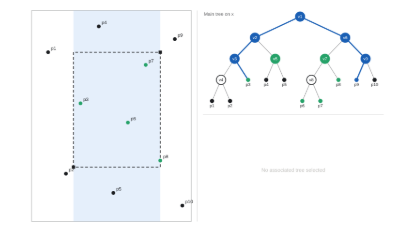
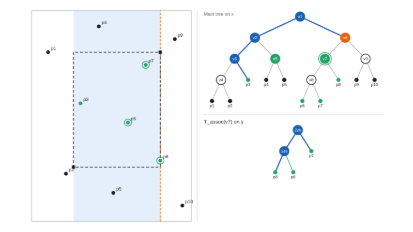
fix: range tree pseudocode width, thumbnail step, kd page link
Claude-Session: https://claude.ai/code/session_01GDn6v79cMSt4qkDVCWkMfK

diff --git a/src/geometry/algorithms/rangetree/rtSteps.test.ts b/src/geometry/algorithms/rangetree/rtSteps.test.ts
@@ -61,13 +61,17 @@ describe('RT_PSEUDOCODE', () => {
       '        else v ← lc(v_split)',
       '            while v is not a leaf',
       '                do if x ≤ x_v',
-      '                    then 1DRangeQuery(T_assoc(rc(v)), [y : y′]); v ← lc(v)',
+      '                    then T′ ← T_assoc(rc(v))',
+      '                        1DRangeQuery(T′, [y : y′])',
+      '                        v ← lc(v)',
       '                    else v ← rc(v)',
       '            check if the point stored at v must be reported',
       '            v ← rc(v_split)',
       '            while v is not a leaf',
       '                do if x′ ≥ x_v',
-      '                    then 1DRangeQuery(T_assoc(lc(v)), [y : y′]); v ← rc(v)',
+      '                    then T′ ← T_assoc(lc(v))',
+      '                        1DRangeQuery(T′, [y : y′])',
+      '                        v ← rc(v)',
       '                    else v ← lc(v)',
       '            check if the point stored at v must be reported',
     ])
@@ -195,7 +199,7 @@ describe('rtSteps: query', () => {
         expect(steps[0].state.pathHi, name).toEqual(toSplit)
       }
 
-      const assoc = steps.filter((s) => s.line === 15 || s.line === 21)
+      const assoc = steps.filter((s) => s.line === 16 || s.line === 24)
       expect(assoc, name).toHaveLength(q.assocQueries.length)
       assoc.forEach((s, k) => {
         const a = q.assocQueries[k]
@@ -223,29 +227,29 @@ describe('rtSteps: query', () => {
           expect(s.state.canonical.at(-1), name).toBe(tree.nodes[s.state.current!].right!.id)
           if (R.x0 === tree.nodes[s.state.current!].value) ties++
         } else if (lr) {
-          expect(s.line, name).toBe(16)
+          expect(s.line, name).toBe(18)
           expect(R.x0 > tree.nodes[s.state.current!].value!, name).toBe(true)
         } else if (hq) {
-          expect(s.line, name).toBe(20)
+          expect(s.line, name).toBe(22)
           expect(R.x1 >= tree.nodes[s.state.current!].value!, name).toBe(true)
           expect(hq[4], name).toBe(label(tree.nodes[s.state.current!].left!.id))
           if (R.x1 === tree.nodes[s.state.current!].value) ties++
         } else if (hl) {
-          expect(s.line, name).toBe(22)
+          expect(s.line, name).toBe(26)
           expect(R.x1 < tree.nodes[s.state.current!].value!, name).toBe(true)
         } else if (LEAF.test(s.description)) {
-          expect([11, 17, 23], name).toContain(s.line)
+          expect([11, 19, 27], name).toContain(s.line)
         } else {
           expect(s === steps[0] || s === last || ASSOC.test(s.description), `${name}: ${s.description}`).toBe(true)
         }
       }
-      const decisions = steps.filter((s) => [14, 16, 20, 22].includes(s.line))
+      const decisions = steps.filter((s) => [14, 18, 22, 26].includes(s.line))
       const below = q.pathLo.slice(q.pathLo.indexOf(q.split!) + 1, -1).length + q.pathHi.slice(q.pathHi.indexOf(q.split!) + 1, -1).length
       expect(decisions, name).toHaveLength(q.split === null ? 0 : below)
       const leaves = steps.filter((s) => LEAF.test(s.description))
       expect(leaves.map((s) => s.state.current).map((id) => tree.nodes[id!].point), name).toEqual(q.checkedLeaves)
 
-      // Done repeats the line of the last end-leaf check: 11 after a split leaf, 23 otherwise
+      // Done repeats the line of the last end-leaf check: 11 after a split leaf, 27 otherwise
       const splitLeaf = q.split !== null && tree.nodes[q.split].kind === 'leaf'
       expect(last.line, name).toBe(splitLeaf ? RT_LINE.splitLeaf : RT_LINE.hiLeaf)
       if (steps.length > 1) expect(last.line, name).toBe(steps[steps.length - 2].line)
@@ -308,10 +312,10 @@ describe('rtSteps: query', () => {
     expect(steps.map((s) => [s.line, s.description])).toEqual([
       [9, 'Split node v2: x = x′ = 100 meets its split value 100, so the path to x goes left and the path to x′ right'],
       [14, 'v3: x = 100 ≤ 100, the right subtree p2 lies in the slab → query its associated tree'],
-      [15, '1DRangeQuery(T_assoc(p2), [150 : 250]): reports p2'],
-      [17, 'Leaf p1: outside'],
-      [23, 'Leaf p3: outside'],
-      [23, 'Done: 1 point reported, 1 associated query'],
+      [16, '1DRangeQuery(T_assoc(p2), [150 : 250]): reports p2'],
+      [19, 'Leaf p1: outside'],
+      [27, 'Leaf p3: outside'],
+      [27, 'Done: 1 point reported, 1 associated query'],
     ])
     // x = x′ off every split value parts the paths nowhere: the split node is a leaf
     const off = rtSteps({ points, query: { x0: 120, y0: 0, x1: 120, y1: 400 } }, 'query')
@@ -332,7 +336,7 @@ describe('rtSteps: degenerate input', () => {
       const steps = rtSteps(input, mode)
       expect(steps).toHaveLength(1)
       expect(steps[0].description).toBe('Done: 0 points reported, 0 associated queries')
-      expect(steps[0].line).toBe(23)
+      expect(steps[0].line).toBe(27)
       expect(steps[0].state).toMatchObject({ phase: 'query', mode, nodes: [], split: null, builtUpTo: 0, reported: [] })
       expect(steps[0].state.counts).toEqual({ nodes: 0, storage: 0, depth: 0, assocQueries: 0 })
     }
@@ -411,12 +415,12 @@ describe('rtSteps: general', () => {
 const TEXTBOOK_QUERY: [number, string][] = [
   [9, 'Split node v1: x = 104 and x′ = 289 go different ways (x ≤ 189 ≤ x′)'],
   [14, 'v2: x = 104 ≤ 119, the right subtree v5 lies in the slab → query its associated tree'],
-  [15, '1DRangeQuery(T_assoc(v5), [131 : 376]): reports nothing'],
-  [16, 'v3: x = 104 > 88, go right'],
-  [17, 'Leaf p3: inside the rectangle, reported'],
-  [20, 'v6: x′ = 289 ≥ 289, the left subtree v7 lies in the slab → query its associated tree'],
-  [21, '1DRangeQuery(T_assoc(v7), [131 : 376]): reports p6, p7, p8'],
-  [22, 'v9: x′ = 289 < 320, go left'],
-  [23, 'Leaf p9: outside'],
-  [23, 'Done: 4 points reported, 2 associated queries'],
+  [16, '1DRangeQuery(T_assoc(v5), [131 : 376]): reports nothing'],
+  [18, 'v3: x = 104 > 88, go right'],
+  [19, 'Leaf p3: inside the rectangle, reported'],
+  [22, 'v6: x′ = 289 ≥ 289, the left subtree v7 lies in the slab → query its associated tree'],
+  [24, '1DRangeQuery(T_assoc(v7), [131 : 376]): reports p6, p7, p8'],
+  [26, 'v9: x′ = 289 < 320, go left'],
+  [27, 'Leaf p9: outside'],
+  [27, 'Done: 4 points reported, 2 associated queries'],
 ]

diff --git a/src/geometry/algorithms/rangetree/search.ts b/src/geometry/algorithms/rangetree/search.ts
@@ -134,10 +134,10 @@ export function oneDRangeQuery(points: Pt[], tree: Tree1D, lo: number, hi: numbe
  * against R. All decisions on x use the composite bounds of `oneDRangeQuery`.
  *
  * `record` gets: line 9 for the split node (11 if it is a leaf, checked directly); on the path
- * to x0 line 14 (query the right child) followed by line 15 (its 1-D query) or line 16 (go right),
- * and line 17 for the end leaf; on the path to x1 lines 20, 21, 22 and 23 likewise; and a final
- * "Done" on the line of the last end-leaf check (11 or 23; 23 if nothing was checked). Only
- * lines 14–15 and 20–21 show an associated tree. It does not change the result.
+ * to x0 line 14 (query the right child) followed by line 16 (its 1-D query) or line 18 (go right),
+ * and line 19 for the end leaf; on the path to x1 lines 22, 24, 26 and 27 likewise; and a final
+ * "Done" on the line of the last end-leaf check (11 or 27; 27 if nothing was checked). Only
+ * lines 14/16 and 22/24 show an associated tree. It does not change the result.
  */
 export function rangeQuery2D(points: Pt[], tree: RangeTree, R: Box, record?: RTRecorder): RangeQuery2DResult {
   const out: RangeQuery2DResult = {
@@ -148,7 +148,7 @@ export function rangeQuery2D(points: Pt[], tree: RangeTree, R: Box, record?: RTR
   // shown only on the steps about that associated tree: the decision that selects it and its 1-D query
   let assocShown: number | null = null
   let assocPaths: AssocQuery | null = null
-  // Done repeats the line of the last end-leaf check (11 or 23); 23 when there was none
+  // Done repeats the line of the last end-leaf check (11 or 27); 27 when there was none
   let lastLine: number = RT_LINE.hiLeaf
   const emit = (line: number, description: string, current: number | null) => {
     if (!record) return
@@ -196,7 +196,7 @@ export function rangeQuery2D(points: Pt[], tree: RangeTree, R: Box, record?: RTR
     split.id,
   )
 
-  /** Lines 14–15 (path to x, `c` the right child of `v`) or 20–21 (path to x′, `c` the left child). */
+  /** Lines 14 and 16 (path to x, `c` the right child of `v`) or 22 and 24 (path to x′, `c` the left child). */
   const canonical = (v: RTNode, c: RTNode, lo: boolean) => {
     out.canonical.push(c.id)
     assocShown = c.id

diff --git a/src/geometry/algorithms/rangetree/pseudocode.ts b/src/geometry/algorithms/rangetree/pseudocode.ts
@@ -1,7 +1,8 @@
 // Pseudocode for the 2-D range tree (de Berg et al., §5.3). Line numbers are the 0-based indices
 // used by the recorders in rangeTree.ts and search.ts. The comparisons are the ones the code
 // makes with composite bounds (see search.ts): the path to x goes left when x ≤ x_v, the path to
-// x′ goes right when x′ ≥ x_v.
+// x′ goes right when x′ ≥ x_v. The associated tree is named T′ on its own line, as the call
+// 1DRangeQuery(T_assoc(rc(v)), [y : y′]) is too wide for the pseudocode card at that depth.
 
 export const RT_PSEUDOCODE: string[] = [
   'Build2DRangeTree(P)',
@@ -19,13 +20,17 @@ export const RT_PSEUDOCODE: string[] = [
   '        else v ← lc(v_split)',
   '            while v is not a leaf',
   '                do if x ≤ x_v',
-  '                    then 1DRangeQuery(T_assoc(rc(v)), [y : y′]); v ← lc(v)',
+  '                    then T′ ← T_assoc(rc(v))',
+  '                        1DRangeQuery(T′, [y : y′])',
+  '                        v ← lc(v)',
   '                    else v ← rc(v)',
   '            check if the point stored at v must be reported',
   '            v ← rc(v_split)',
   '            while v is not a leaf',
   '                do if x′ ≥ x_v',
-  '                    then 1DRangeQuery(T_assoc(lc(v)), [y : y′]); v ← rc(v)',
+  '                    then T′ ← T_assoc(lc(v))',
+  '                        1DRangeQuery(T′, [y : y′])',
+  '                        v ← rc(v)',
   '                    else v ← lc(v)',
   '            check if the point stored at v must be reported',
 ]
@@ -39,11 +44,11 @@ export const RT_LINE = {
   findSplit: 9,
   splitLeaf: 11,
   loQuery: 14,
-  loAssoc: 15,
-  loRight: 16,
-  loLeaf: 17,
-  hiQuery: 20,
-  hiAssoc: 21,
-  hiLeft: 22,
-  hiLeaf: 23,
+  loAssoc: 16,
+  loRight: 18,
+  loLeaf: 19,
+  hiQuery: 22,
+  hiAssoc: 24,
+  hiLeft: 26,
+  hiLeaf: 27,
 } as const

diff --git a/src/geometry/algorithms/rangetree/rtState.ts b/src/geometry/algorithms/rangetree/rtState.ts
@@ -38,7 +38,7 @@ export type RTState = {
   /**
    * The main-tree node whose associated tree is drawn, or null. Set only on the steps about that
    * tree: the node's build step, and in the query the decision that selects a canonical subtree
-   * (lines 14 / 20) and its 1DRangeQuery (lines 15 / 21); null on every other query step.
+   * (lines 14 / 22) and its 1DRangeQuery (lines 16 / 24); null on every other query step.
    */
   assocShown: number | null
   /** The search paths and reported nodes in `assocShown`'s associated tree: on its 1DRangeQuery step only, else null. */

diff --git a/src/players/rangeTreePlayer.ts b/src/players/rangeTreePlayer.ts
@@ -118,7 +118,7 @@ const rangeTreePlayer: PlayerModule<RTState, RangeTreeInput> = {
     { id: 'build', label: 'Build only' },
     { id: 'query', label: 'Query only' },
   ],
-  // the query block is lines 8–23, the build block 0–7
+  // the query block is lines 8–27, the build block 0–7
   dimmedLines: (mode) => (mode === 'build' ? range(8, RT_PSEUDOCODE.length - 1) : mode === 'query' ? range(0, 7) : []),
   pseudocode: RT_PSEUDOCODE,
   hint: 'Drag the points or the corners of the query rectangle. Keys: ← → to step, Space to play or pause.',

diff --git a/src/players/rangeTreePlayer.browser.test.ts b/src/players/rangeTreePlayer.browser.test.ts
@@ -558,7 +558,7 @@ test('modes, dimmed lines, presets, canvas, hint and colours', () => {
     { id: 'query', label: 'Query only' },
   ])
   expect(rangeTreePlayer.pseudocode).toBe(RT_PSEUDOCODE)
-  expect(rangeTreePlayer.dimmedLines!('build')).toEqual(range(8, 23))
+  expect(rangeTreePlayer.dimmedLines!('build')).toEqual(range(8, 27))
   expect(rangeTreePlayer.dimmedLines!('query')).toEqual(range(0, 7))
   expect(rangeTreePlayer.dimmedLines!('full')).toEqual([])
   expect(rangeTreePlayer.dimmedLines!()).toEqual([])
